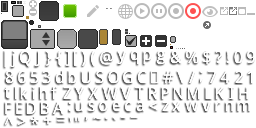
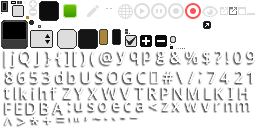
Fixed some issues, added code to dump gaia attitude, dark theme is now black

diff --git a/core/src/gaia/cu9/ari/gaiaorbit/scenegraph/Gaia.java b/core/src/gaia/cu9/ari/gaiaorbit/scenegraph/Gaia.java
@@ -5,6 +5,7 @@ import com.badlogic.gdx.math.Matrix4;
 import com.badlogic.gdx.math.Quaternion;
 import gaia.cu9.ari.gaiaorbit.event.EventManager;
 import gaia.cu9.ari.gaiaorbit.event.Events;
+import gaia.cu9.ari.gaiaorbit.util.Constants;
 import gaia.cu9.ari.gaiaorbit.util.coord.AstroUtils;
 import gaia.cu9.ari.gaiaorbit.util.coord.Coordinates;
 import gaia.cu9.ari.gaiaorbit.util.gaia.Attitude;
@@ -12,6 +13,11 @@ import gaia.cu9.ari.gaiaorbit.util.gaia.GaiaAttitudeServer;
 import gaia.cu9.ari.gaiaorbit.util.math.Quaterniond;
 import gaia.cu9.ari.gaiaorbit.util.math.Vector3d;
 import gaia.cu9.ari.gaiaorbit.util.time.ITimeFrameProvider;
+
+import java.io.*;
+import java.util.Calendar;
+import java.util.Date;
+import java.util.GregorianCalendar;
 
 public class Gaia extends ModelBody {
 
@@ -75,6 +81,7 @@ public class Gaia extends ModelBody {
             unrotatedPos.mul(Coordinates.eclipticToEquatorial()).rotate(-AstroUtils.getSunLongitude(time.getTime()) - 180, 0, 1, 0);
             attitude = GaiaAttitudeServer.instance.getAttitude(time.getTime());
         }
+
     }
 
     @Override
@@ -103,7 +110,6 @@ public class Gaia extends ModelBody {
         transform.getTranslation(out);
     }
 
-
     @Override
     protected float labelFactor() {
         return 2e1f;
@@ -124,4 +130,66 @@ public class Gaia extends ModelBody {
         return name != null && viewAngle > TH_ANGLE_POINT;
     }
 
+    private void attitudeZAxisToFile() {
+        Calendar iniCal = GregorianCalendar.getInstance();
+        // 2014-01-15T15:43:04
+        iniCal.set(2014, 01, 15, 15, 43, 04);
+        Date ini = iniCal.getTime();
+        // 2019-06-20T06:20:05
+        iniCal.set(2019, 06, 20, 05, 40, 00);
+        Date end = iniCal.getTime();
+
+        long tini = ini.getTime();
+        long tend = end.getTime();
+        Vector3d v = new Vector3d();
+        Vector3d sph = new Vector3d();
+
+        String filenameEcl = "Gaia-ecliptic-Z-" + System.currentTimeMillis() + ".csv";
+        String filenameEq = "Gaia-equatorial-Z-" + System.currentTimeMillis() + ".csv";
+        File fecl = new File(System.getProperty("java.io.tmpdir") + File.separator + filenameEcl);
+        File feq = new File(System.getProperty("java.io.tmpdir") + File.separator + filenameEq);
+
+        try {
+            Writer writerEcl = new BufferedWriter(new OutputStreamWriter(
+                    new FileOutputStream(fecl), "utf-8"));
+            Writer writerEq = new BufferedWriter(new OutputStreamWriter(
+                    new FileOutputStream(feq), "utf-8"));
+
+            writerEcl.append("#EclLong[deg], EclLat[deg], t[ms-January_1_1970_00:00:00_GMT], current[date], attitudeFile\n");
+            writerEq.append("#alpha[deg], delta[deg], t[ms-January_1_1970_00:00:00_GMT], current[date], attitudeFile\n");
+            for (long t = tini; t <= tend; t += Constants.H_TO_MS) {
+                Date current = new Date(t);
+
+                try {
+                    Attitude att = GaiaAttitudeServer.instance.getAttitude(current);
+                    Quaterniond quat = att.getQuaternion();
+
+                    v.set(0, 1, 0);
+
+                    // Equatorial
+                    v.rotateVectorByQuaternion(quat);
+                    Coordinates.cartesianToSpherical(v, sph);
+                    writerEq.append(Math.toDegrees(sph.x) + ", " + Math.toDegrees(sph.y) + ", " + t + ", " + current + ", " + GaiaAttitudeServer.instance.getCurrentAttitudeName() + "\n");
+
+                    //Ecliptic
+                    v.mul(Coordinates.eclipticToEquatorial());
+                    Coordinates.cartesianToSpherical(v, sph);
+                    writerEcl.append(Math.toDegrees(sph.x) + ", " + Math.toDegrees(sph.y) + ", " + t + ", " + current + ", " + GaiaAttitudeServer.instance.getCurrentAttitudeName() + "\n");
+
+                } catch (Exception e) {
+                    System.out.println("Error: t=" + current);
+                }
+
+            }
+
+            writerEcl.close();
+            writerEq.close();
+
+        } catch (IOException e) {
+            e.printStackTrace();
+        }
+
+    }
+
 }
+

diff --git a/core/src/gaia/cu9/ari/gaiaorbit/util/coord/Coordinates.java b/core/src/gaia/cu9/ari/gaiaorbit/util/coord/Coordinates.java
@@ -6,7 +6,7 @@ import gaia.cu9.ari.gaiaorbit.util.math.Vector2d;
 import gaia.cu9.ari.gaiaorbit.util.math.Vector3d;
 
 /**
- * Provides utility coordinate conversions between some astronomical coordinate systems and to 
+ * Provides utility coordinate conversions between some astronomical coordinate systems and to
  * Cartesian coordinates. All angles are in radians.
  * @author Toni Sagrista
  *
@@ -357,22 +357,22 @@ public class Coordinates {
      * Converts from Cartesian coordinates to spherical coordinates.
      * @param vec Vector with the Cartesian coordinates[x, y, z] where x and z are on the horizontal plane and y is in the up direction.
      * @param out Output vector.
-     * @return Output vector containing the spherical coordinates. <ol><li>The longitude or right ascension (&alpha;), from the z direction to the x direction.</li><li>The latitude or declination (&delta;).</li><li>The radius or distance to the point.</li></ol> 
+     * @return Output vector containing the spherical coordinates. <ol><li>The longitude or right ascension (&alpha;), from the z direction to the x direction.</li><li>The latitude or declination (&delta;).</li><li>The radius or distance to the point.</li></ol>
      */
     public static Vector3d cartesianToSpherical(Vector3d vec, Vector3d out) {
         /**
-         * 
+         *
          *     x, y, z = values[:]
                 xsq = x ** 2
                 ysq = y ** 2
                 zsq = z ** 2
                 distance = math.sqrt(xsq + ysq + zsq)
-            
+
                 alpha = math.atan2(y, x)
                 # Correct the value of alpha depending upon the quadrant.
                 if alpha < 0:
                     alpha += 2 * math.pi
-            
+
                 if (xsq + ysq) == 0:
                     # In the case of the poles, delta is -90 or +90
                     delta = math.copysign(math.pi / 2, z)
@@ -393,7 +393,7 @@ public class Coordinates {
         if (zsq + xsq == 0) {
             delta = (vec.y > 0 ? Math.PI / 2 : -Math.PI / 2);
         } else {
-            delta = Math.tan(vec.y / Math.sqrt(zsq + xsq));
+            delta = Math.atan(vec.y / Math.sqrt(zsq + xsq));
         }
 
         out.x = alpha;

diff --git a/core/src/gaia/cu9/ari/gaiaorbit/util/gaia/GaiaAttitudeServer.java b/core/src/gaia/cu9/ari/gaiaorbit/util/gaia/GaiaAttitudeServer.java
@@ -39,7 +39,7 @@ public class GaiaAttitudeServer {
     public GaiaAttitudeServer(FileHandle xmlFolder) {
         attitudes = AttitudeXmlParser.parseFolder(xmlFolder);
         initialDate = ((AttitudeIntervalBean) attitudes.findMin()).activationTime;
-        current = new AttitudeIntervalBean("current", null, null);
+        current = new AttitudeIntervalBean("current", null, null, "dummy");
         // Dummy attitude
         dummyAttitude = new ConcreteAttitude(0, new Quaterniond(), false);
     }
@@ -87,6 +87,13 @@ public class GaiaAttitudeServer {
             return att.get(date);
         }
 
+    }
+
+    public synchronized String getCurrentAttitudeName(){
+        if(prevAttitude != null){
+            return prevAttitude.file;
+        }
+        return null;
     }
 
 }

diff --git a/core/src/gaia/cu9/ari/gaiaorbit/util/gaia/AttitudeIntervalBean.java b/core/src/gaia/cu9/ari/gaiaorbit/util/gaia/AttitudeIntervalBean.java
@@ -14,13 +14,15 @@ import java.util.Map;
 public class AttitudeIntervalBean implements Comparable<AttitudeIntervalBean> {
     public String name;
     public Date activationTime;
+    public String file;
     public BaseAttitudeDataServer attitude;
 
     public Map<Long, Attitude> cache;
     public long hits = 0, misses = 0;
 
 
-    public AttitudeIntervalBean(String name, Date activationTime, BaseAttitudeDataServer attitude){
+    public AttitudeIntervalBean(String name, Date activationTime, BaseAttitudeDataServer attitude, String file){
+        this.file = file;
         this.name = name;
         this.activationTime = activationTime;
         this.attitude = attitude;

diff --git a/core/src/gaia/cu9/ari/gaiaorbit/util/gaia/AttitudeXmlParser.java b/core/src/gaia/cu9/ari/gaiaorbit/util/gaia/AttitudeXmlParser.java
@@ -192,7 +192,7 @@ public class AttitudeXmlParser {
             result = epsl;
         }
 
-        return new AttitudeIntervalBean(name, activationTime, result);
+        return new AttitudeIntervalBean(name, activationTime, result, fh.name());
     }
 
     private static Date getDate(String date) {
